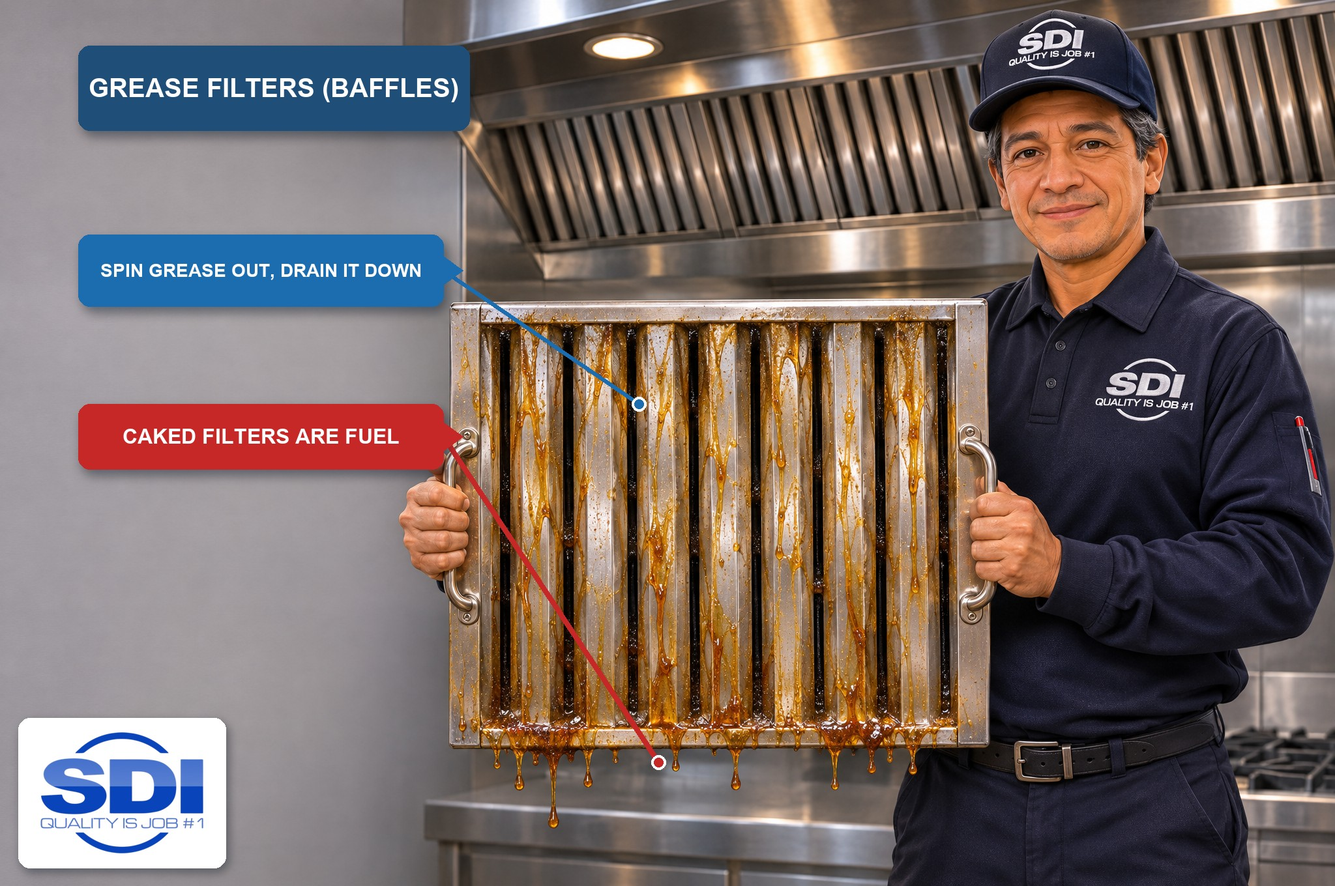
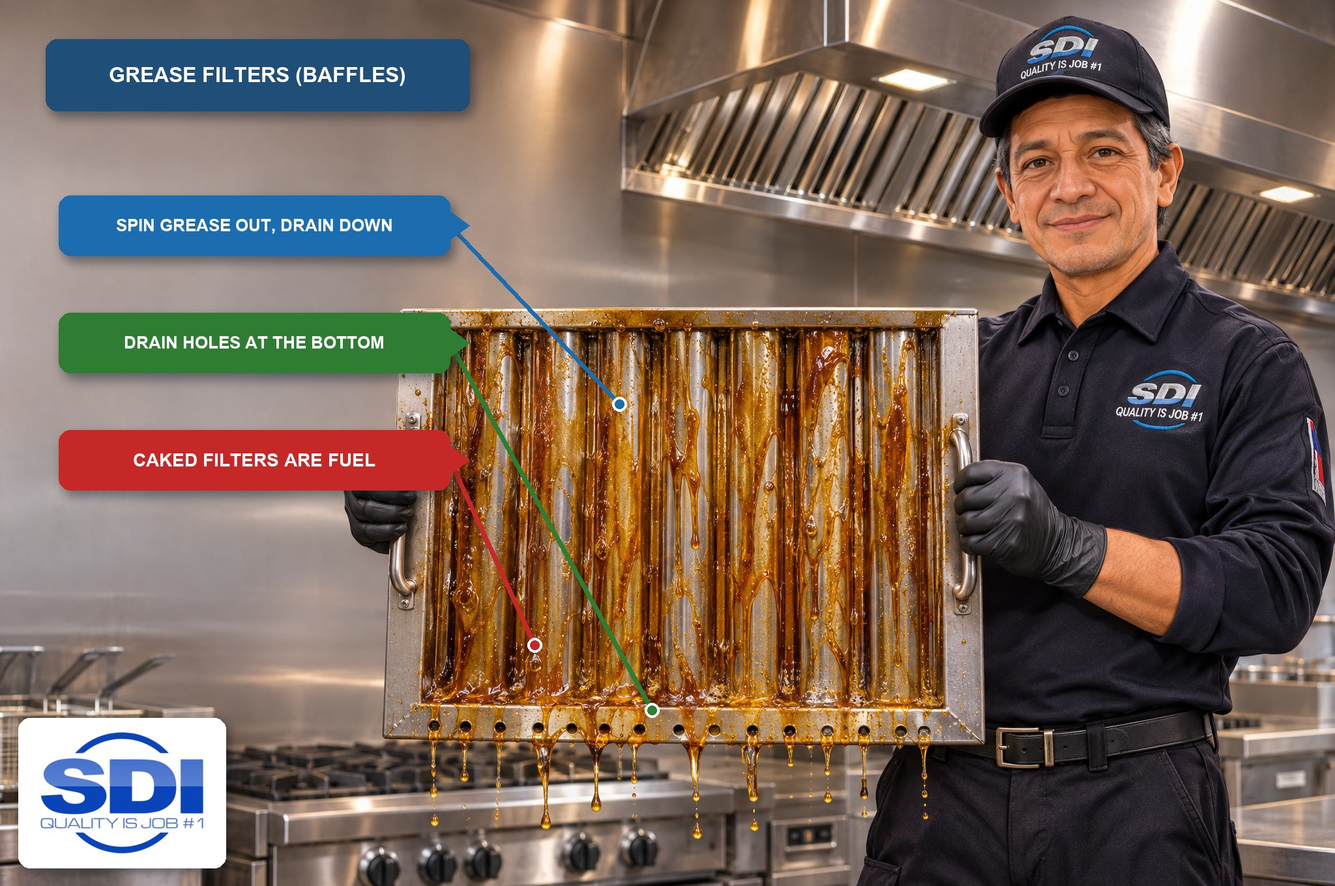
Baffle filter slide: show bottom drain holes

diff --git a/index.html b/index.html
@@ -361,7 +361,7 @@ var LESSONS={
     "type": "slide",
     "img": "hood/02_filters.jpg",
     "title": "Grease filters (baffles)",
-    "cap": "Air hits the angled baffles and spins. Grease flings out and drains down while the air passes through. Use listed grease filters, fit tight and set so the grease drains back (NFPA 96). Never mesh filters."
+    "cap": "Air hits the angled baffles and spins. Grease flings out, runs down the channels, and drains out the small holes along the bottom rail into the drip tray, while the air passes through. Use listed grease filters, fit tight and set so the grease drains back (NFPA 96). Never mesh filters."
    },
    {
     "type": "slide",
